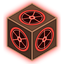
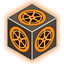
Hidden Cube picture: glowing orange rings on a grey stone cube with bone-coloured edges (after the game's own cube textures), smaller on the map

diff --git a/Tools/aion2-icons/build_cube_icon.py b/Tools/aion2-icons/build_cube_icon.py
@@ -1,7 +1,7 @@
 """Draws the picture of the Hidden Cube for the gathering settings and the map: python3 build_cube_icon.py <Client/assets/aion2/maps/gather_icons>
 
-The client has no icon of the cube (its item is a key), so this is drawn: a dark bronze cube seen from a corner, a glowing red ring with six spokes
-on each of its three faces, and a red glow around it - as the cube looks in the game. Output: HiddenCube.png (64 px, transparent)."""
+The client has no icon of the cube (its item is a key), so this is drawn: a pale stone cube with bone-coloured edges (the game's HiddenCube_01_D texture is grey stone with bone-white bands) seen from a corner, a glowing orange ring
+with six spokes on each of its three faces, and an orange glow around it - as the cube looks in the game. Output: HiddenCube.png (64 px, transparent)."""
 import math
 import os
 import sys
@@ -14,22 +14,22 @@ OUT = 64
 
 def face(shade):
     """One flat face: bronze square with a frame, the ring, six spokes and the hub, glowing red."""
-    base = tuple(int(c * shade) for c in (112, 74, 54))
+    base = tuple(int(c * shade) for c in (96, 88, 80))
     im = Image.new("RGBA", (S, S), base + (255,))
     d = ImageDraw.Draw(im)
-    d.rectangle([0, 0, S - 1, S - 1], outline=tuple(int(c * shade) for c in (170, 120, 90)), width=14)
-    d.rectangle([22, 22, S - 23, S - 23], outline=tuple(int(c * shade) for c in (60, 36, 28)), width=6)
+    d.rectangle([0, 0, S - 1, S - 1], outline=tuple(int(c * shade) for c in (206, 192, 168)), width=14)
+    d.rectangle([22, 22, S - 23, S - 23], outline=tuple(int(c * shade) for c in (70, 60, 52)), width=6)
     cx = cy = S / 2
     glow = Image.new("RGBA", (S, S), (0, 0, 0, 0))
     g = ImageDraw.Draw(glow)
-    g.ellipse([cx - 190, cy - 190, cx + 190, cy + 190], fill=(40, 6, 6, 255))
-    g.ellipse([cx - 190, cy - 190, cx + 190, cy + 190], outline=(255, 70, 60, 255), width=26)
-    g.ellipse([cx - 150, cy - 150, cx + 150, cy + 150], outline=(255, 150, 130, 255), width=8)
+    g.ellipse([cx - 200, cy - 200, cx + 200, cy + 200], fill=(50, 18, 4, 255))
+    g.ellipse([cx - 200, cy - 200, cx + 200, cy + 200], outline=(255, 140, 20, 255), width=44)
+    g.ellipse([cx - 140, cy - 140, cx + 140, cy + 140], outline=(255, 220, 130, 255), width=14)
     for k in range(6):
         a = math.radians(30 + k * 60)
-        g.line([cx + math.cos(a) * 40, cy + math.sin(a) * 40, cx + math.cos(a) * 160, cy + math.sin(a) * 160], fill=(255, 110, 95, 255), width=14)
-    g.ellipse([cx - 44, cy - 44, cx + 44, cy + 44], fill=(255, 90, 80, 255), outline=(255, 190, 170, 255), width=8)
-    g.ellipse([cx - 16, cy - 16, cx + 16, cy + 16], fill=(60, 8, 8, 255))
+        g.line([cx + math.cos(a) * 40, cy + math.sin(a) * 40, cx + math.cos(a) * 160, cy + math.sin(a) * 160], fill=(255, 175, 50, 255), width=24)
+    g.ellipse([cx - 44, cy - 44, cx + 44, cy + 44], fill=(255, 150, 30, 255), outline=(255, 230, 170, 255), width=8)
+    g.ellipse([cx - 16, cy - 16, cx + 16, cy + 16], fill=(90, 30, 6, 255))
     halo = glow.filter(ImageFilter.GaussianBlur(14))
     im = Image.alpha_composite(im, halo)
     return Image.alpha_composite(im, glow)
@@ -67,8 +67,8 @@ def main():
     silhouette = canvas.getchannel("A")
     edge = ImageDraw.Draw(canvas)
     for p, q in ((top_pt, ur), (ur, lr), (lr, bot), (bot, ll), (ll, ul), (ul, top_pt), (mid, ul), (mid, ur), (mid, bot)):
-        edge.line([p, q], fill=(200, 140, 105, 255), width=10)
-    glow = Image.new("RGBA", (W, W), (255, 40, 30, 255))
+        edge.line([p, q], fill=(214, 198, 172, 255), width=10)
+    glow = Image.new("RGBA", (W, W), (255, 120, 20, 255))
     glow.putalpha(silhouette.filter(ImageFilter.MaxFilter(21)).filter(ImageFilter.GaussianBlur(34)).point(lambda v: int(v * 0.85)))
     final = Image.alpha_composite(glow, canvas)
     bbox = final.getchannel("A").point(lambda v: 255 if v > 24 else 0).getbbox()

diff --git a/Client/Ui/PetMapWindows.cs b/Client/Ui/PetMapWindows.cs
@@ -760,8 +760,11 @@ public sealed class PetMapWindow : MovableOverlay
 
                 var shown = _gatherIcons[iconMark++];
                 shown.Source = icon;
-                Canvas.SetLeft(shown, px - 12);
-                Canvas.SetTop(shown, py - 12);
+                // the cubes are many and close together: a smaller picture than the other collectibles
+                double side = kind == "Cube" ? 17 : 24;
+                shown.Width = shown.Height = side;
+                Canvas.SetLeft(shown, px - side / 2);
+                Canvas.SetTop(shown, py - side / 2);
                 shown.Visibility = Visibility.Visible;
                 continue;
             }
